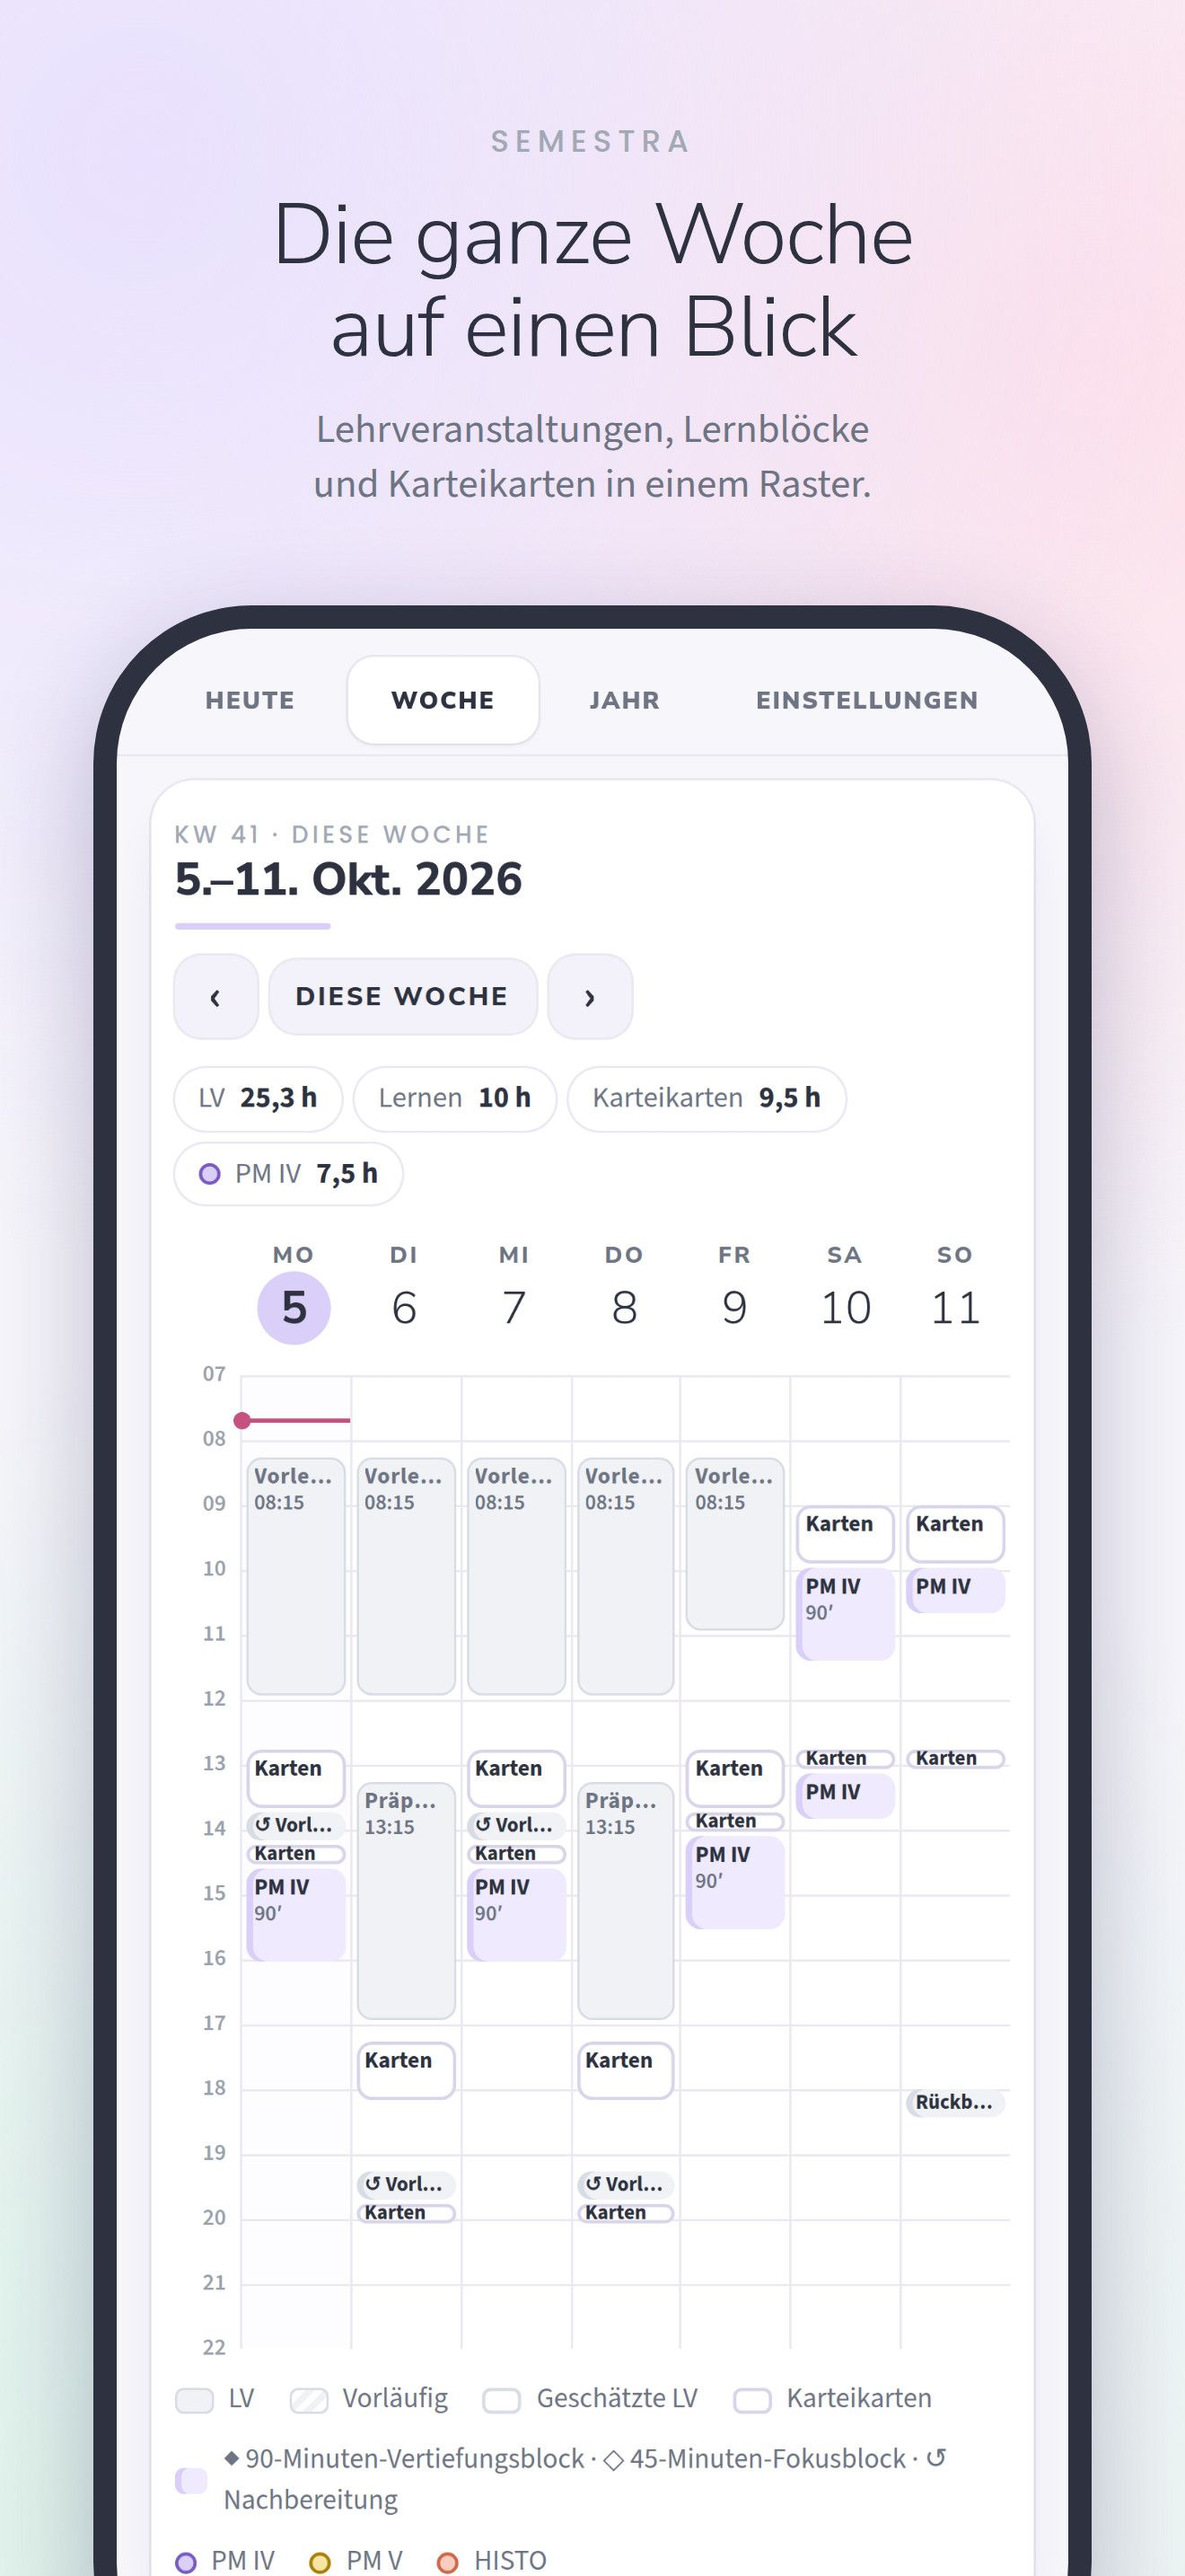
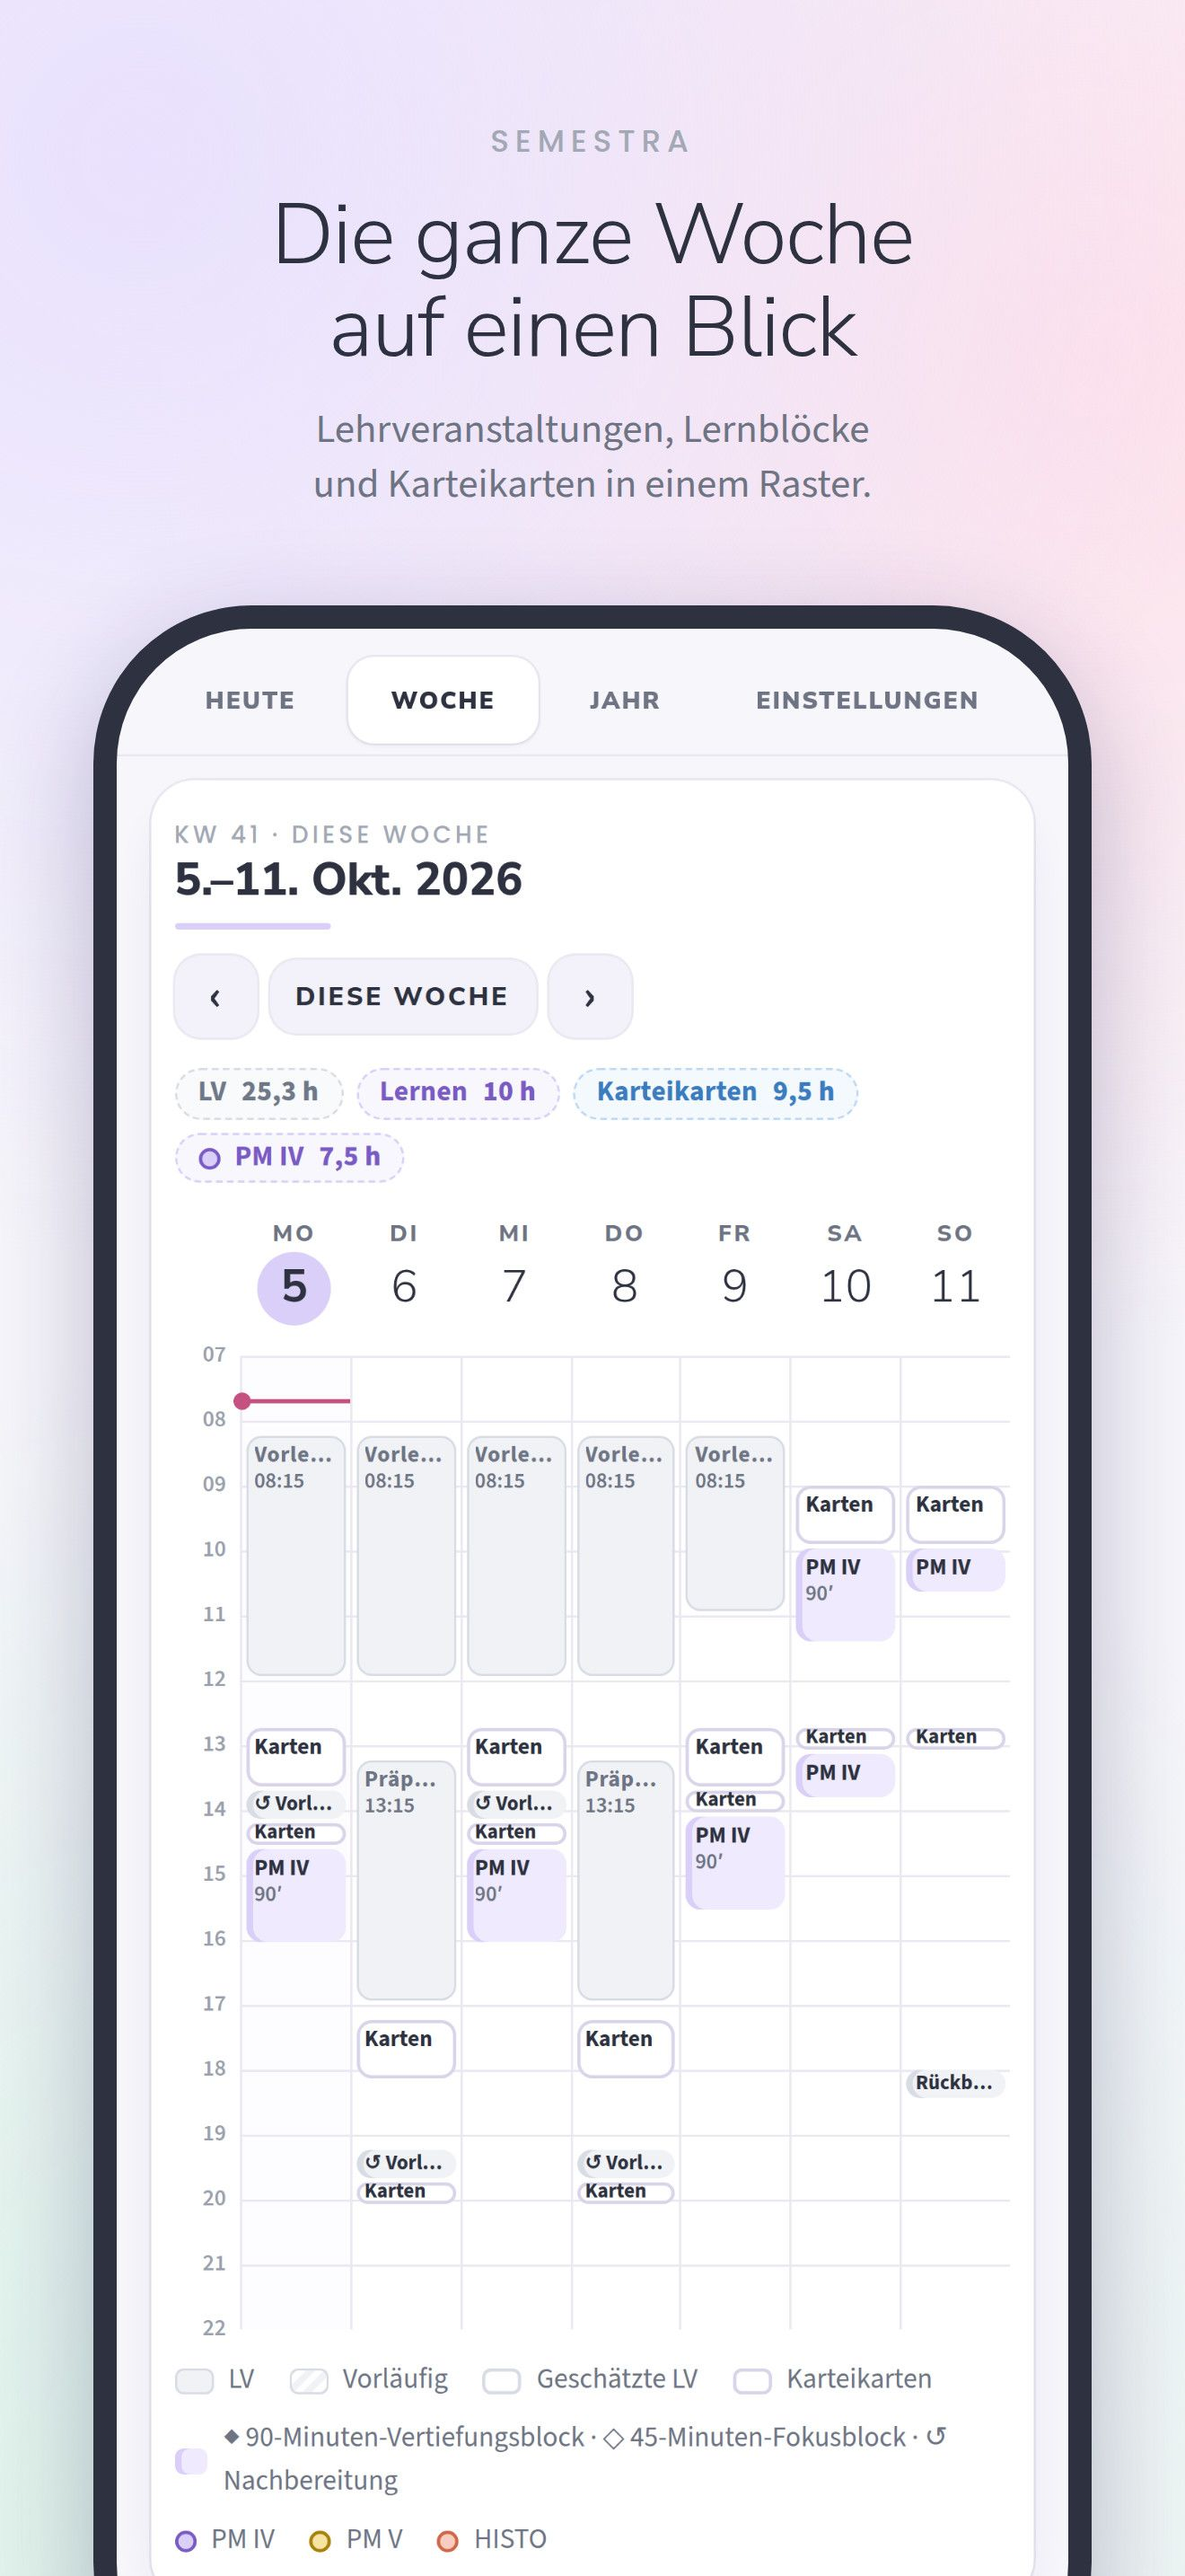
Week chips match the Today pills: same size, pale colour, dashed outline
Study time lavender (as on Today), flashcards sky (their Setup colour),
classes grey, exams in their colour; also the imported-weeks list in Setup.

Claude-Session: https://claude.ai/code/session_01E171zcFhx6uJd6jSp7rjZZ

diff --git a/src/styles/app.css b/src/styles/app.css
@@ -141,5 +141,9 @@ input::-webkit-date-and-time-value{text-align:left;min-height:1.4em}
 .box .btn.soft{background:var(--sheet);color:var(--bx-fg,var(--ink-strong));box-shadow:0 0 0 1px var(--bx-ring,var(--line))}
 .ex-banner .btn:not(.soft):not(.ghost){background:var(--lav);color:var(--sheet)}
 
-/* Info pills (e.g. under the date on Today) are labels, not buttons: very pale fill, dashed outline in their colour */
+/* Info pills and chips (under the date on Today, the totals on Week, imported weeks) are labels, not buttons:
+   very pale fill, dashed outline in their colour */
+.chip{padding:1px 10px;font:700 13px/1.5 var(--f-body);letter-spacing:.01em;color:var(--acc,var(--grey));box-shadow:none;
+  background:var(--acc-bg,var(--grey-bg));background:color-mix(in srgb,var(--acc-bg,var(--grey-bg)) 40%,var(--sheet));border:1px dashed var(--acc-mid,var(--grey-mid))}
+.chip b{color:inherit;font-weight:800}
 .pill{padding:1px 10px;background:var(--acc-bg,var(--grey-bg));background:color-mix(in srgb,var(--acc-bg,var(--grey-bg)) 40%,var(--sheet));border:1px dashed var(--acc-mid,var(--grey-mid))}

diff --git a/src/ui/views/Week.tsx b/src/ui/views/Week.tsx
@@ -69,11 +69,11 @@ export function WeekView() {
         <span className="chip">
           {t('week.chipClasses')} <b>{f.hrs(tot.classes)}</b>
         </span>
-        <span className="chip">
+        <span className="chip" style={av('lav')}>
           {t('week.chipStudy')} <b>{f.hrs(tot.study)}</b>
         </span>
         {st.cards.on && (
-          <span className="chip">
+          <span className="chip" style={av('sky')}>
             {t('week.chipCards')} <b>{f.hrs(tot.cards)}</b>
           </span>
         )}
